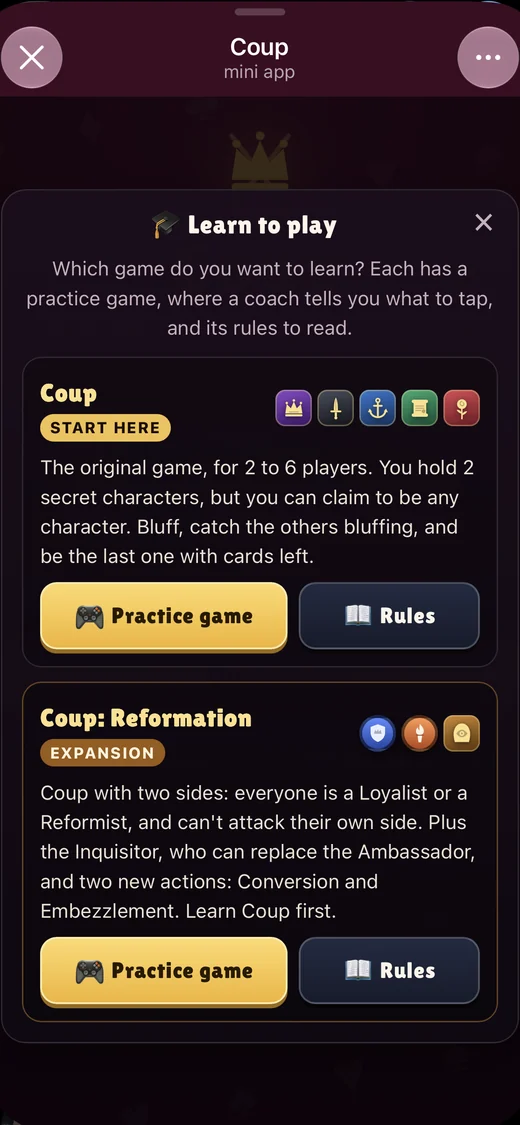
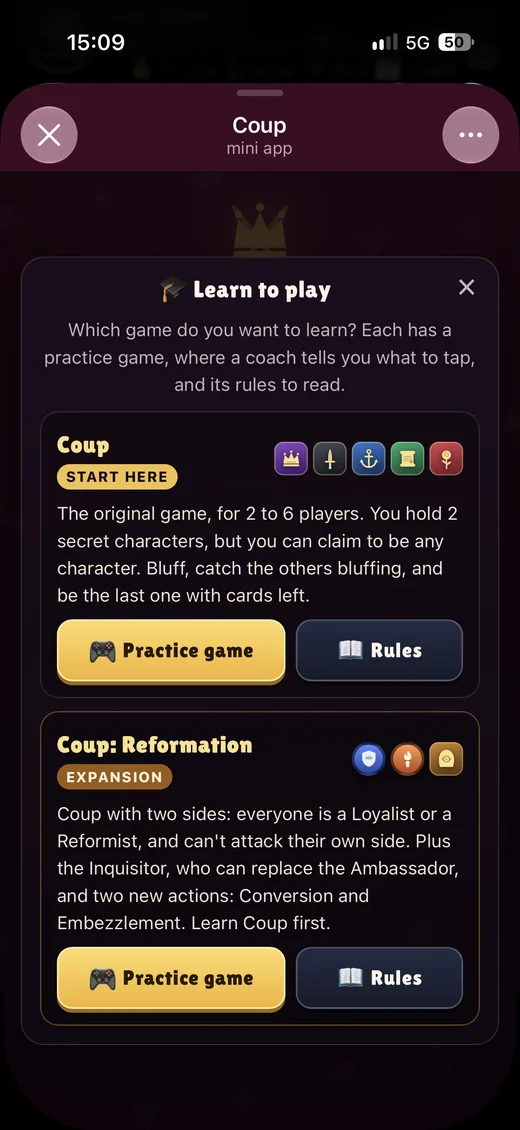
Use full iPhone screenshots for the Coup project
Replace the four Coup images with uncropped screenshots from an iPhone,
status bar and Telegram header included, and match the phone frame to
their aspect ratio. Update the alt text to describe each screen.

diff --git a/index.html b/index.html
@@ -150,7 +150,7 @@ html[dir="rtl"] .qfacts b{text-align:right}
 /* COUP: four real phone screenshots */
 .phones{display:grid;grid-template-columns:repeat(4,minmax(0,1fr));gap:clamp(10px,2vw,26px);padding:clamp(22px,4vw,48px) clamp(18px,4vw,48px) 0}
 .phones figure{margin:0;display:flex;flex-direction:column;gap:10px;min-width:0}
-.phones img{width:100%;height:auto;aspect-ratio:520/1125;object-fit:cover;object-position:top;border-radius:clamp(14px,2vw,26px);border:clamp(3px,.5vw,6px) solid #0B110D;box-shadow:0 30px 60px -28px rgba(0,0,0,.9)}
+.phones img{width:100%;height:auto;aspect-ratio:520/1130;object-fit:cover;object-position:top;border-radius:clamp(14px,2vw,26px);border:clamp(3px,.5vw,6px) solid #0B110D;box-shadow:0 30px 60px -28px rgba(0,0,0,.9)}
 .phones figure:nth-child(even){transform:translateY(clamp(14px,3vw,40px))}
 .phones figcaption{font-size:13px;color:var(--plate-soft);text-align:center}
 .cap-wide{display:grid!important;grid-template-columns:minmax(0,1.3fr) minmax(0,1fr);gap:14px 40px;align-items:start;padding-top:clamp(40px,5vw,64px)!important}
@@ -403,10 +403,10 @@ html[lang="fa"] .mail a{text-align:left}
     <div class="plates">
       <article class="plate p-coup">
         <div class="vis phones">
-          <figure><img src="img/coup-home.webp" alt="Coup home screen with Quick match, With friends and Vs computers" width="520" height="1125" loading="lazy" decoding="async"></figure>
-          <figure><img src="img/coup-table.webp" alt="A Coup table where a computer player claims the Duke and you can challenge or pass" width="520" height="1125" loading="lazy" decoding="async"></figure>
-          <figure><img src="img/coup-reformation.webp" alt="Coup Reformation table where players choose Loyalist or Reformist" width="520" height="1125" loading="lazy" decoding="async"></figure>
-          <figure><img src="img/coup-learn.webp" alt="Coup Learn to play screen with a coached practice game and rules for Coup and the Reformation expansion" width="520" height="1125" loading="lazy" decoding="async"></figure>
+          <figure><img src="img/coup-home.webp" alt="Coup home screen inside Telegram, with Quick match, With friends and Vs computers" width="520" height="1130" loading="lazy" decoding="async"></figure>
+          <figure><img src="img/coup-table.webp" alt="A Coup table where a computer player claims the Captain to steal from you, and you can challenge or pass" width="520" height="1130" loading="lazy" decoding="async"></figure>
+          <figure><img src="img/coup-reformation.webp" alt="A Coup Reformation practice game where the coach tells you to make a player swap the Duke they showed" width="520" height="1130" loading="lazy" decoding="async"></figure>
+          <figure><img src="img/coup-learn.webp" alt="Coup Learn to play screen with a coached practice game and rules for Coup and the Reformation expansion" width="520" height="1130" loading="lazy" decoding="async"></figure>
         </div>
         <div class="cap cap-wide">
           <div>
